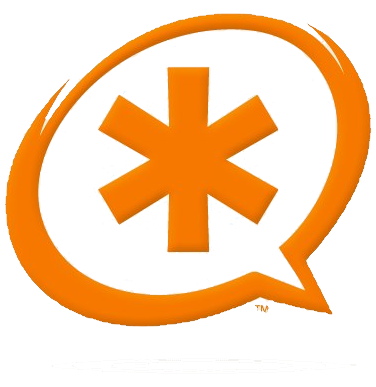
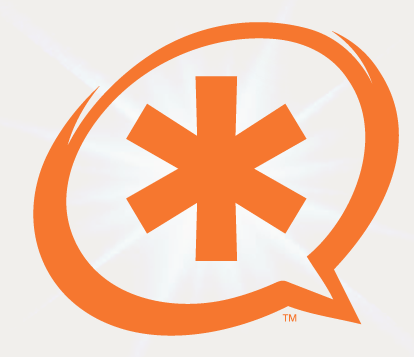
Styled all the things.

diff --git a/css/style.css b/css/style.css
@@ -36,6 +36,11 @@ input[type="checkbox"] {
   clear: both;
 }
 
+div#holder {  
+    position: absolute;
+    width: 100%;
+
+}
 
 
 /***************** body ***************/
@@ -79,10 +84,11 @@ div.balloonInvitationTip a:hover {
 /************* top-bar ****************/
 #top-bar {
   position: absolute;
-  z-index: 100;
+/*   z-index: 100; */
   height: 40px;
   width: 100%;
   background: #000 20px center url("../images/logo-mini.png") no-repeat;
+  bottom: 0px;
 }
 
 #top-bar div.description {
@@ -138,7 +144,7 @@ div.balloonInvitationTip a:hover {
   height: 100%;
   opacity: 0.95;
   /* background: #00A8A8; old blue */
-  background: #AC9865;
+  background: #414141;
 }
 
 #login-box {
@@ -148,7 +154,7 @@ div.balloonInvitationTip a:hover {
   height: 450px;
   left: 50%;
   /*top: 50%;*/
-  top: 100px;
+  top: 40px;
   margin-left: -250px;
   /*margin-top: -220px;*/
   background: url("../images/transparent-75-bg.png") repeat;
@@ -178,7 +184,7 @@ div.balloonInvitationTip a:hover {
   padding: 0 10px;
   font-size: 14px;
   font-weight: bold;
-  background: #AB9B7A;
+  background: #334A6D;
   opacity: 0.9;
   color: #FFF;
   border-radius: 4px 4px 0 0;
@@ -376,7 +382,7 @@ div.balloonInvitationTip a:hover {
 
 /****** phone-page *******/
 #phone-page {
-  padding-top: 40px;
+/*   padding-top: 40px; */
 }
 
 

diff --git a/index.html b/index.html
@@ -36,7 +36,7 @@
 
 
 <body id="body">
-
+<div id="holder">
   <a href="js/custom.REMOVE_THIS.js" style="display: none">real hack</a>
 
   <div id="top-bar">
@@ -161,7 +161,7 @@
     </div>
 -->
     <div class="digium">
-      <img src="images/asterisk-bubble-v2.png" style="display: block; position: absolute; left: 330px;top: 200px;">
+      <img src="images/asterisk-bubble.png" style="display: block; position: absolute; left: 430px;top: 70px;">
     </div>
 
     <div id="phone">
@@ -247,6 +247,6 @@
     <div id="ws_reconnect"></div>
     <div id="unregister_all"></div>
   </div><!-- phone-page -->
-
+</div>
 </body>
 </html>
